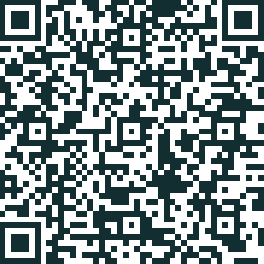
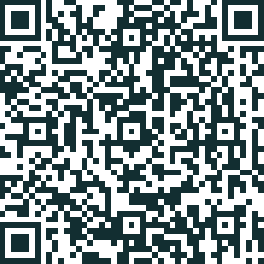
readme

diff --git a/backend/venom.js b/backend/venom.js
@@ -5,7 +5,7 @@ const Globals = require('./Globals');
 const initiate = (socket,msg = 'Hi') => {
 venom
   .create(
-    'new',
+    'aaaaa',
     (base64Qr, asciiQR) => {
       console.log(asciiQR); // Optional to log the QR in the terminal
       var matches = base64Qr.match(/^data:([A-Za-z-+\/]+);base64,(.+)$/),

diff --git a/README.md b/README.md
@@ -12,4 +12,45 @@
 
 > 👩🏽💻 Automate your whatsapp today
 
+## Why WhatsApp Bot ?
+Have you ever had to wake up early to send a messae to someone in whatsapp ? or maybe you want to automate replies to redundant messages, well whatsapp bot is here for you to make your life easier.
+
+## How to use Whatsapp Bot
+
+
+After downloading and running whatsapp bot
+you shoud see the following screen.
+The start button will appear which then you can click on to initate a connection with the backend server
+
+
+![](assets/screen0.png)
+
+After achieving a connection with the server if you have logged in before the server will automatically remember your token and log you in else it will show you a qr code to scan
+
+![](assets/screen1.png)
+
+## Adding custom messages
+
+To add a custom message you can choose a message automation trigger which will send the desired message after someone sends you the trigger word and can set a time to send timed messages
+
+![](assets/screen2.png)
+
+
+## The future of Whatsapp bot
+
+> Typescript support
+
+> Docker Support
+
+> & More
+
+
+### For more information
+
+* [Github](https://github.com/micaelillos)
+
+* [Contact Me](https://micaelil.com/contact)
+
+**Enjoy!**
+
 
